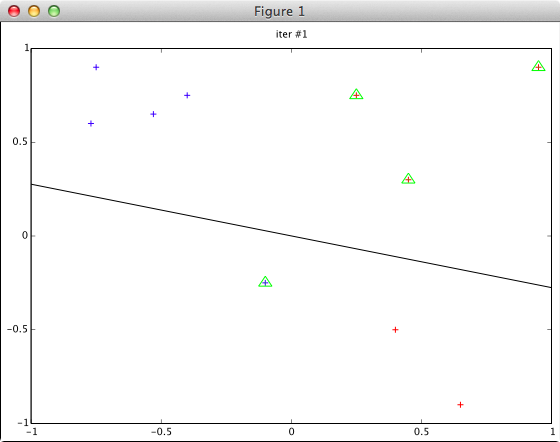
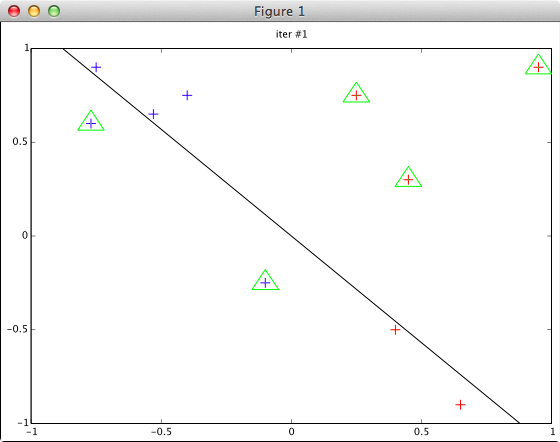
iter画像修正

diff --git a/prml/4.1.7/slide-fuli.html b/prml/4.1.7/slide-fuli.html
@@ -371,15 +371,15 @@ end
 <pre>
 function plotData(x, y, w, t)
   a = w(1,1); b = w(1,2);
-  figure; hold on;
+  figure(t); clf(); hold on;
   title(sprintf('iter #%d', t));
   axis([-1 1 -1 1]);
-  pos = find(y > 0); plot(x(pos,1), x(pos,2), '+b');
-  neg = find(y < 0); plot(x(neg,1), x(neg,2), '+r');
+  pos = find(y > 0); plot(x(pos,1), x(pos,2), '+b', 'markersize', 10);
+  neg = find(y < 0); plot(x(neg,1), x(neg,2), '+r', 'markersize', 10);
   % 誤分類されたものに◯
   s = (x * w&#145;) .* y;
   bad = find(s < 0);
-  plot(x(bad,1), x(bad,2), 'og', 'markersize', 10);
+  plot(x(bad,1), x(bad,2), 'og', 'markersize', 20);
   % 決定境界に線を引く: ax + by = 0
   if abs(a) <= abs(b)
     plot([-1 1], [a/b -a/b], '-k', 'LineWidth', 1);

diff --git a/prml/4.1.7/slide.html b/prml/4.1.7/slide.html
@@ -253,15 +253,15 @@ end
 <pre>
 function plotData(x, y, w, t)
   a = w(1,1); b = w(1,2);
-  figure; hold on;
+  figure(t); clf(); hold on;
   title(sprintf('iter #%d', t));
   axis([-1 1 -1 1]);
-  pos = find(y > 0); plot(x(pos,1), x(pos,2), '+b');
-  neg = find(y < 0); plot(x(neg,1), x(neg,2), '+r');
+  pos = find(y > 0); plot(x(pos,1), x(pos,2), '+b', 'markersize', 10);
+  neg = find(y < 0); plot(x(neg,1), x(neg,2), '+r', 'markersize', 10);
   % 誤分類されたものに◯
   s = (x * w&#145;) .* y;
   bad = find(s < 0);
-  plot(x(bad,1), x(bad,2), 'og', 'markersize', 10);
+  plot(x(bad,1), x(bad,2), 'og', 'markersize', 20);
   % 決定境界に線を引く: ax + by = 0
   if abs(a) <= abs(b)
     plot([-1 1], [a/b -a/b], '-k', 'LineWidth', 1);

diff --git a/prml/4.1.7/impl/plotData.m b/prml/4.1.7/impl/plotData.m
@@ -3,8 +3,9 @@ function plotData(x, y, w, t)
 a = w(1,1);
 b = w(1,2);
 
-% figure();
-figure(1, 'Position',[0,0,300,300]); clf();
+% figure(t); % イテレーション毎にウィンドウを開く
+figure(1); % 新しいウィンドウを開かない
+clf();
 hold on;
 title(sprintf('iter #%d', t));
 axis([-1 1 -1 1]);
